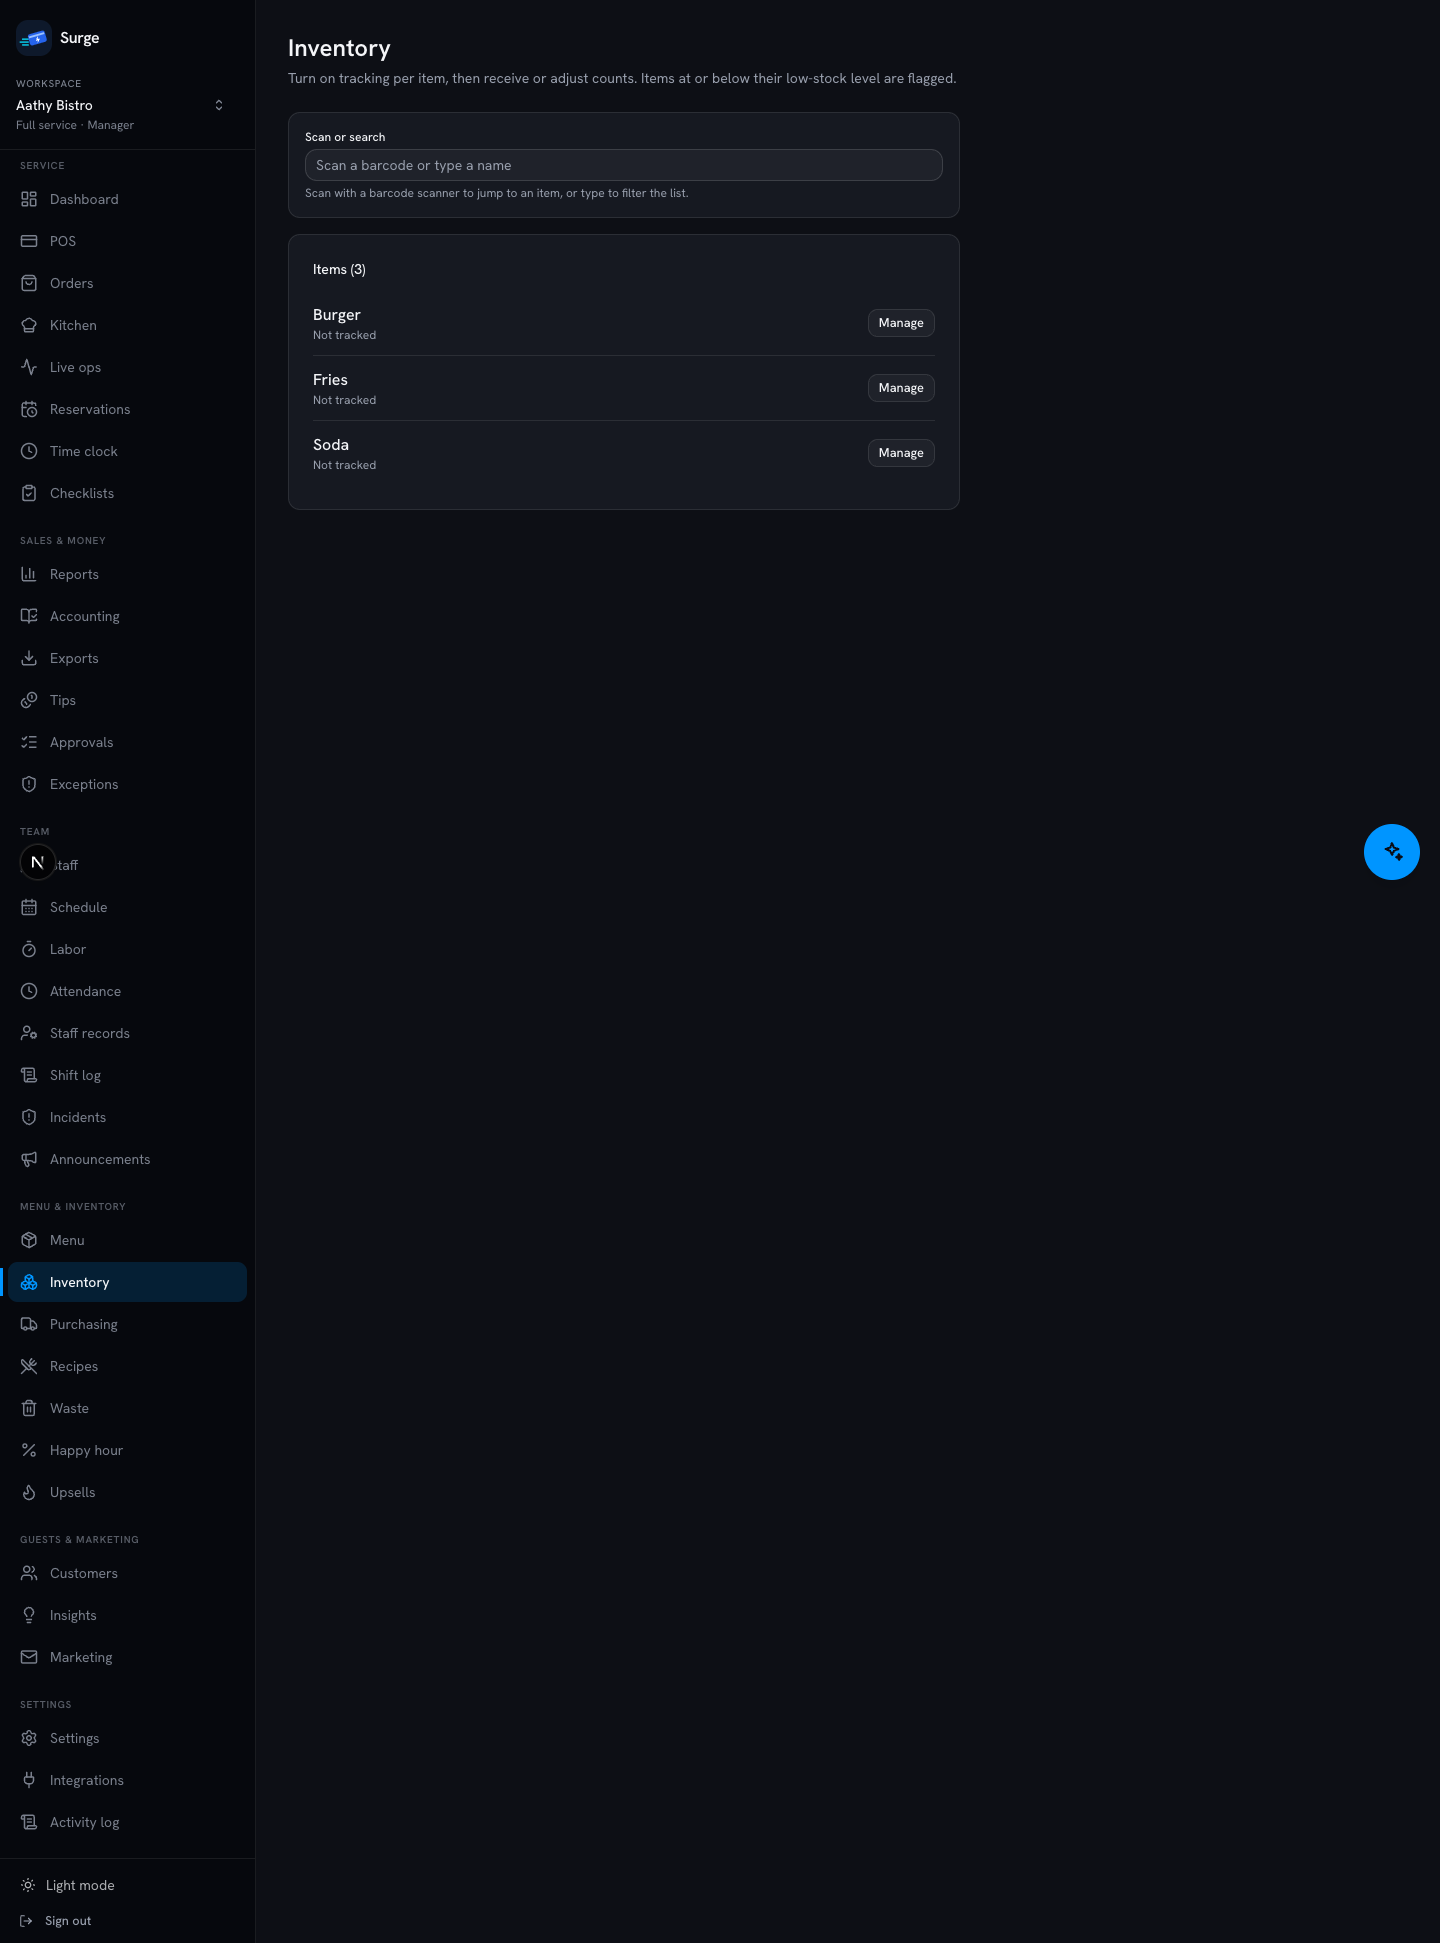
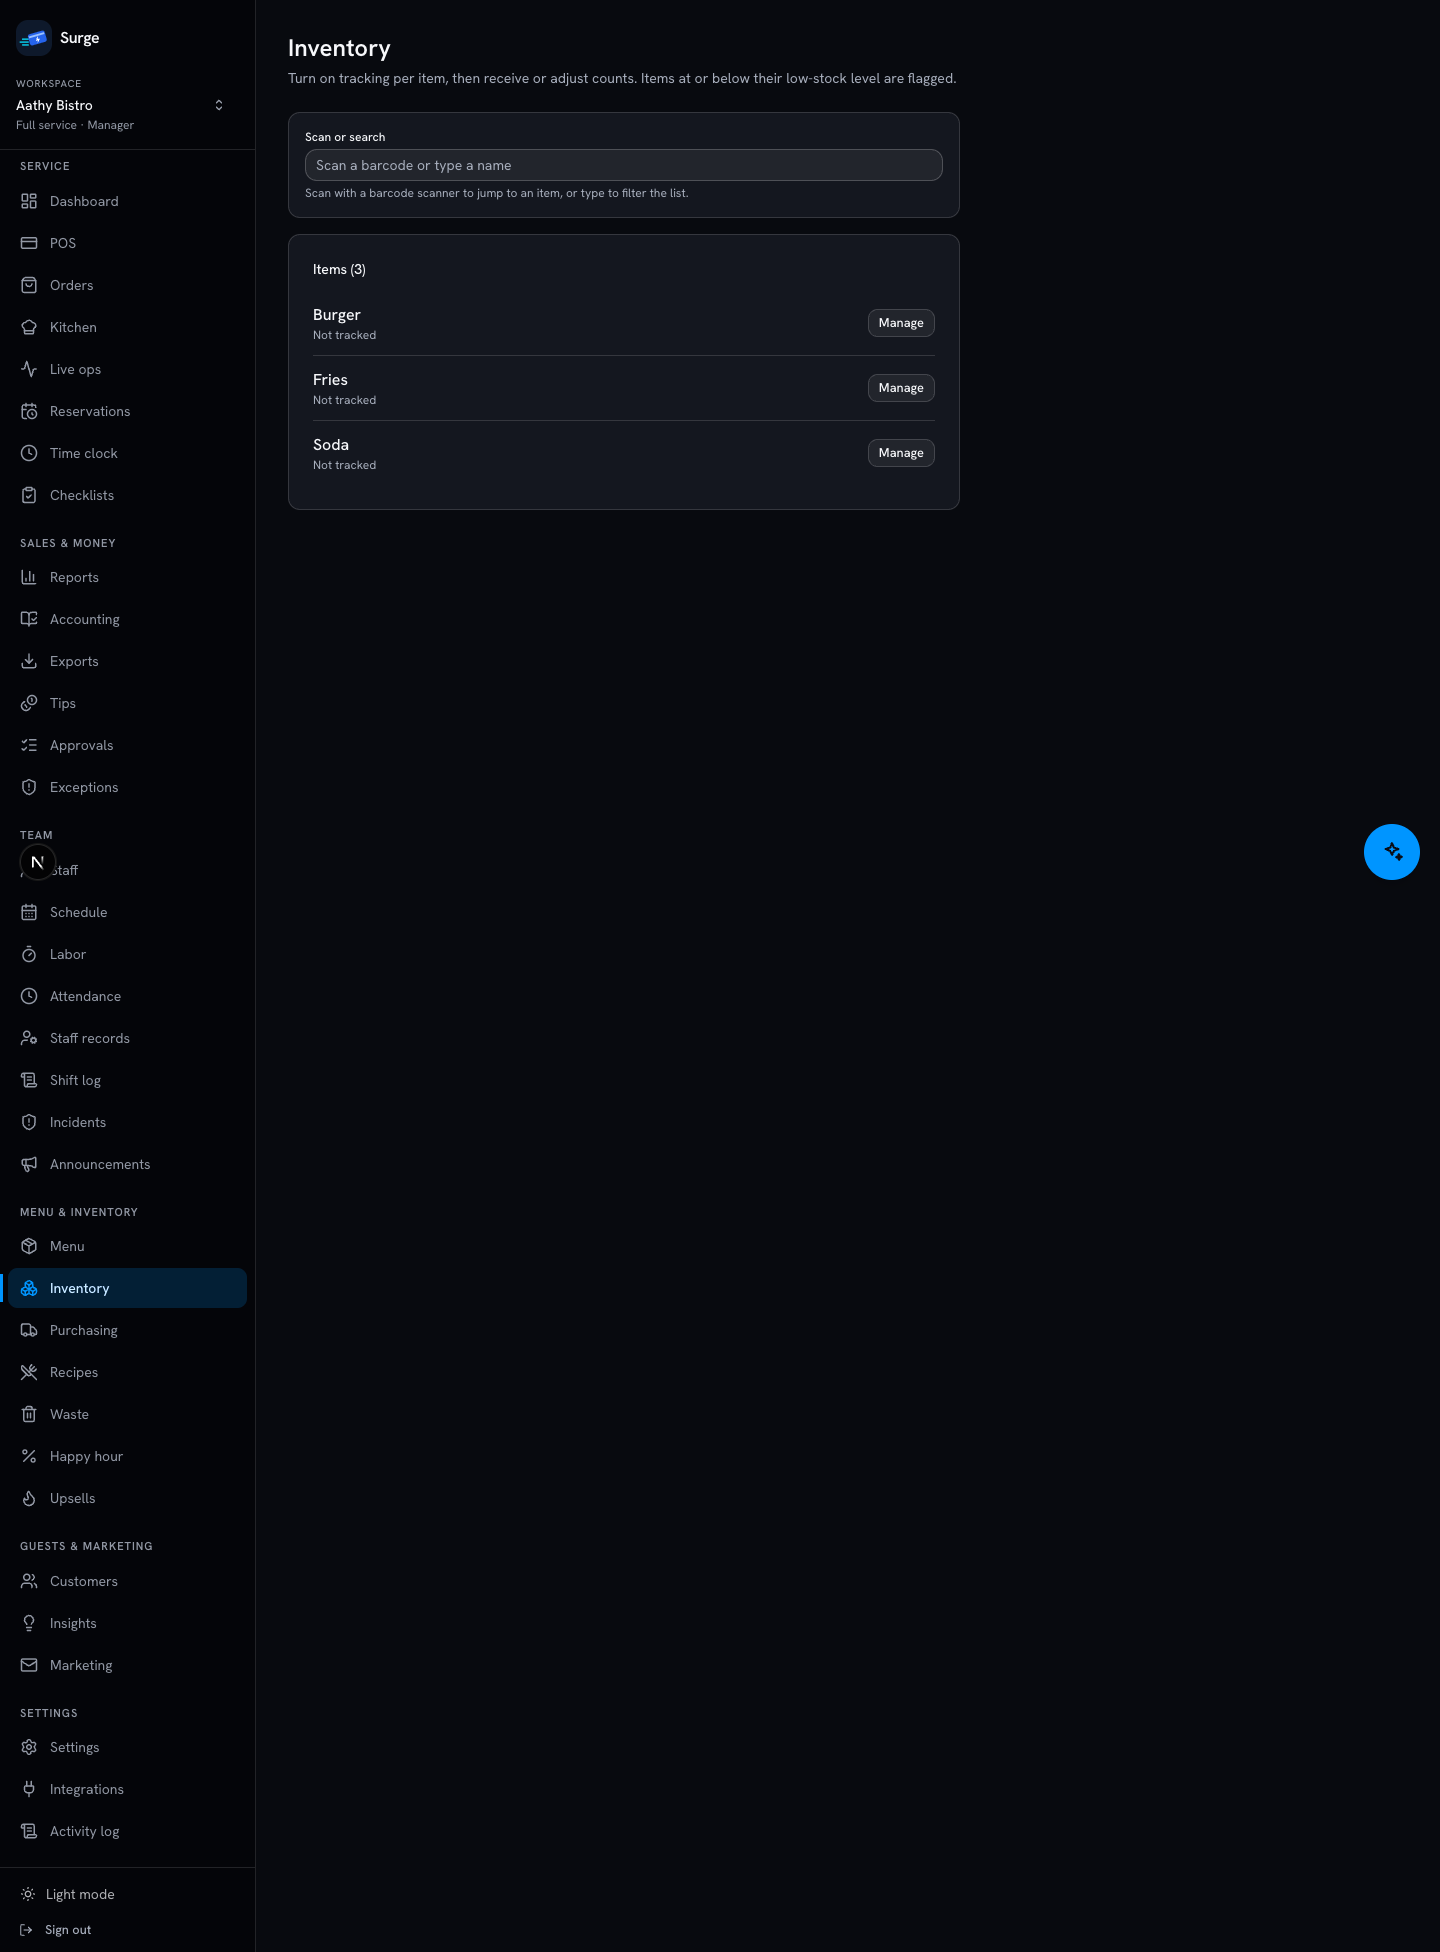
style(admin): give the dark theme a real surface ladder
An outside visual review called the back office flat and low-contrast, and it
was right. The cause was in the tokens, not the components: the canvas sat at
lightness 0.17 and cards at 0.215 — 0.045 apart — with 9%-opacity borders, so
every panel dissolved into the page and a screen read as one black rectangle
with text on it.

Four rungs now, each a visible step: canvas 0.145, card/panel 0.205, raised
0.245 (inputs, table headers, chips), overlay 0.275 (popovers, sheets). Borders
go 9% → 14%, inputs 13% → 20%, dividers 8% → 12%, and muted text 0.70 → 0.75 so
column headers and timestamps survive a glance.

The sidebar was 0.135 against the old canvas; with the canvas at 0.145 the rail
had all but merged with the page, so it drops to 0.115 and its group headings
lose the extra /70 transparency that made six sections hard to scan. The active
row now tints toward the accent instead of just going white.

Done in the existing OKLCH tokens rather than the hex palette the review
proposed, so it reaches all 45 routes at once and light mode still works — the
reviewer's spec named files that don't exist here (web/, AppSidebar.tsx,
ui/table.tsx, ui/badge.tsx) and would have forked the token system.

Screenshots in docs/review-screens/ re-captured. 114 tests, clean typecheck,
clean production build.

diff --git a/app/globals.css b/app/globals.css
@@ -55,6 +55,8 @@
   --color-card: var(--card);
   /* Design-system additions: raised surface, hairline borders, card elevation. */
   --color-surface-2: var(--surface-2);
+  --color-raised: var(--raised);
+  --color-raised-border: var(--raised-border);
   --color-line: var(--line);
   --color-line-strong: var(--line-strong);
   --shadow-elevation: var(--elevation);
@@ -127,6 +129,8 @@
 
   /* Elevation + surfaces (Daylight) */
   --surface-2: oklch(0.97 0.006 265);
+  --raised: oklch(0.975 0.004 265);
+  --raised-border: oklch(0.21 0.02 265 / 0.08);
   --line: oklch(0.21 0.02 265 / 0.1);
   --line-strong: oklch(0.21 0.02 265 / 0.18);
   --elevation: 0 1px 2px oklch(0 0 0 / 0.06), 0 12px 28px -18px oklch(0 0 0 / 0.18);
@@ -134,25 +138,45 @@
 }
 
 .dark {
-  /* Midnight — deep ink, lifted cards, electric blue accent */
-  --background: oklch(0.17 0.013 265);
-  --foreground: oklch(0.97 0.004 265);
-  --card: oklch(0.215 0.017 265);
-  --card-foreground: oklch(0.97 0.004 265);
-  --popover: oklch(0.2 0.017 265);
-  --popover-foreground: oklch(0.97 0.004 265);
+  /* Midnight — deep ink, lifted cards, electric blue accent.
+   *
+   * SURFACE LADDER. The canvas and the card used to sit 0.045 apart in
+   * lightness (0.17 vs 0.215) with 9%-opacity borders, so panels dissolved into
+   * the page — everything read as one flat black rectangle with text on it.
+   * Four rungs now, each a clear step, so a card looks like an object and a
+   * table header looks like part of that object:
+   *
+   *   canvas   0.145   the page behind everything
+   *   surface  0.205   cards, panels, the header bar
+   *   raised   0.245   inputs, table headers, chips — inside a card
+   *   overlay  0.275   popovers, dropdowns, sheets — above everything
+   */
+  --background: oklch(0.145 0.012 265);
+  --foreground: oklch(0.98 0.004 265);
+  --card: oklch(0.205 0.016 265);
+  --card-foreground: oklch(0.98 0.004 265);
+  --popover: oklch(0.275 0.019 265);
+  --popover-foreground: oklch(0.98 0.004 265);
   --primary: oklch(0.66 0.19 250);
   --primary-foreground: oklch(0.16 0.02 265);
-  --secondary: oklch(0.255 0.018 265);
-  --secondary-foreground: oklch(0.97 0.004 265);
-  --muted: oklch(0.255 0.016 265);
-  --muted-foreground: oklch(0.7 0.022 265);
-  --accent: oklch(0.28 0.02 265);
-  --accent-foreground: oklch(0.97 0.004 265);
+  --secondary: oklch(0.245 0.017 265);
+  --secondary-foreground: oklch(0.98 0.004 265);
+  --muted: oklch(0.245 0.016 265);
+  /* Was 0.7 — column headers, timestamps and helper text sat too close to the
+     card to scan a report quickly. */
+  --muted-foreground: oklch(0.75 0.022 265);
+  --accent: oklch(0.29 0.02 265);
+  --accent-foreground: oklch(0.98 0.004 265);
   --destructive: oklch(0.62 0.2 22);
-  --border: oklch(1 0 0 / 9%);
-  --input: oklch(1 0 0 / 13%);
+  /* A hairline you can actually see. 9% vanished against the new canvas. */
+  --border: oklch(1 0 0 / 14%);
+  --input: oklch(1 0 0 / 20%);
   --ring: oklch(0.66 0.19 250);
+
+  /* Rung 3 of the ladder, for surfaces nested INSIDE a card: table headers,
+     inputs, inline chips. Referenced as bg-raised / border-raised. */
+  --raised: oklch(0.245 0.017 265);
+  --raised-border: oklch(1 0 0 / 10%);
   --chart-1: oklch(0.66 0.19 250);
   --chart-2: oklch(0.72 0.14 200);
   --chart-3: oklch(0.78 0.13 165);
@@ -162,19 +186,23 @@
   --brand: oklch(0.66 0.19 250);
   --brand-foreground: oklch(0.16 0.02 265);
 
-  --sidebar: oklch(0.135 0.012 265);
-  --sidebar-foreground: oklch(0.97 0.004 265);
-  --sidebar-muted: oklch(0.6 0.02 265);
+  /* Deeper than the canvas (0.145) so the rail reads as a distinct plane
+     rather than merging into the page, which is what happened once the canvas
+     darkened. */
+  --sidebar: oklch(0.115 0.011 265);
+  --sidebar-foreground: oklch(0.98 0.004 265);
+  /* Group headings and inactive items were 0.6 — too dim to scan six sections. */
+  --sidebar-muted: oklch(0.68 0.02 265);
   --sidebar-primary: oklch(0.66 0.19 250);
   --sidebar-primary-foreground: oklch(0.16 0.02 265);
-  --sidebar-accent: oklch(0.66 0.19 250 / 0.16);
-  --sidebar-accent-foreground: oklch(0.92 0.06 250);
-  --sidebar-border: oklch(1 0 0 / 8%);
+  --sidebar-accent: oklch(0.66 0.19 250 / 0.18);
+  --sidebar-accent-foreground: oklch(0.94 0.06 250);
+  --sidebar-border: oklch(1 0 0 / 12%);
   --sidebar-ring: oklch(0.66 0.19 250);
 
   /* Floor table status — darker fills, brighter text for dark mode.
      Available is a gray clearly lighter than the floor canvas so empty tables
-     read as solid objects (the canvas uses --background ≈ 0.17). */
+     read as solid objects (the canvas uses --background ≈ 0.145). */
   --table-available-bg: oklch(0.27 0.01 265);
   --table-available-border: oklch(0.42 0.02 265);
   --table-seated-bg: oklch(0.33 0.08 255);
@@ -189,8 +217,8 @@
 
   /* Elevation + surfaces (Midnight) — lifted cards on deep ink */
   --surface-2: oklch(0.265 0.02 265);
-  --line: oklch(1 0 0 / 0.08);
-  --line-strong: oklch(1 0 0 / 0.16);
+  --line: oklch(1 0 0 / 0.12);
+  --line-strong: oklch(1 0 0 / 0.22);
   --elevation: 0 1px 0 oklch(1 0 0 / 0.04) inset, 0 14px 34px -20px oklch(0 0 0 / 0.75);
   --elevation-sm: 0 1px 0 oklch(1 0 0 / 0.03) inset, 0 8px 20px -14px oklch(0 0 0 / 0.7);
 }

diff --git a/app/app/_components/sidebar-nav.tsx b/app/app/_components/sidebar-nav.tsx
@@ -114,7 +114,10 @@ export function SidebarNav({ sections }: { sections: NavSection[] }) {
         <div key={section.key} className={si === 0 ? "" : "mt-5"}>
           {/* A heading only earns its space when there's more than one group. */}
           {sections.length > 1 && (
-            <p className="px-3 pb-1.5 text-[10px] font-semibold uppercase tracking-[0.08em] text-sidebar-muted/70">
+            // Was text-sidebar-muted/70 — the extra 30% transparency on an
+            // already-dim token left the six group headings barely legible,
+            // which defeats the point of grouping.
+            <p className="px-3 pb-1.5 text-[11px] font-semibold uppercase tracking-[0.09em] text-sidebar-muted">
               {section.label}
             </p>
           )}
@@ -149,7 +152,11 @@ export function SidebarNav({ sections }: { sections: NavSection[] }) {
                     <span
                       className={`relative flex items-center gap-3 z-10 transition-colors ${
                         isActive
-                          ? "text-sidebar-foreground font-medium"
+                          ? // The active row already has an accent fill and a
+                            // left bar; tinting the label toward the accent is
+                            // what makes it read as selected rather than merely
+                            // highlighted.
+                            "text-sidebar-accent-foreground font-medium"
                           : "text-sidebar-muted group-hover:text-sidebar-foreground"
                       }`}
                     >

diff --git a/app/robots.ts b/app/robots.ts
@@ -2,7 +2,21 @@ import type { MetadataRoute } from "next";
 
 const SITE_URL = "https://www.surgetechpos.com";
 
+// TEMPORARY, paired with OPEN_PREVIEW in lib/supabase/middleware.ts — set this
+// back to `false` at the same time.
+//
+// Well-behaved fetchers honour robots.txt, so `Disallow: /app/` makes the
+// dashboard unfetchable for them on ANY host. That looks like "the link is
+// broken" when it's really "the crawler is doing as it's told" — it's why an
+// outside reviewer couldn't load the tunnel. Permissive while the review runs;
+// production is unaffected by the NODE_ENV term.
+const OPEN_PREVIEW = true;
+const openPreview = OPEN_PREVIEW && process.env.NODE_ENV !== "production";
+
 export default function robots(): MetadataRoute.Robots {
+  if (openPreview) {
+    return { rules: { userAgent: "*", allow: "/" } };
+  }
   return {
     rules: {
       userAgent: "*",

diff --git a/docs/review-screens 2/README.md b/docs/review-screens 2/README.md
@@ -1,0 +1,61 @@
+# Surge POS — admin dashboard screens for review
+
+22 full-page screenshots of the back office, captured at 1440×900 (2× DPI, dark
+theme, full scroll height). Tenant is **Aathy Bistro**, a full-service
+restaurant, viewed as a **manager**.
+
+Read them in numbered order — it follows how a restaurant actually uses the
+product: service → money → team → menu → guests → settings.
+
+## What's already been reviewed, and what hasn't
+
+An earlier review of this dashboard was **text-only** — it read the codebase and
+the audit notes but never saw a screen. Its findings were about information
+architecture, and they are all implemented:
+
+- flat 29-item sidebar → six mode-aware groups (visible in every screenshot)
+- ~12 routes that existed but appeared in no menu → now mounted
+- route access moved from `owner || manager` role checks to a permission matrix
+- two new roles, **Shift lead** and **Bookkeeper**, that previously could not
+  sign in at all
+- honest export labels ("Journal CSV for QuickBooks / Xero", not a fake sync)
+
+**So please don't re-derive the IA critique.** These images exist so the review
+can finally be about what's on the screen.
+
+## What to look at
+
+| # | Screen | Worth judging |
+| --- | --- | --- |
+| 01 | Dashboard | First thing an owner sees each morning. Is the hierarchy right? Too many equal-weight KPI tiles? |
+| 02–04 | Live ops, Kitchen/Expo, Orders | Density and scannability under service pressure |
+| 05–06 | Reports, Reports with a custom date range | 06 is new. Does the date control read clearly beside the Today/7d/30d presets? |
+| 07–08 | Accounting, Exports | Read as a bookkeeper: is it obvious what each export gives you? |
+| 09–10 | Approvals, Exceptions | These are mostly empty here — judge the empty states |
+| 11 | Staff | Role list and PIN management |
+| **22** | **Staff → Manage, expanded** | **The newest surface.** "Dashboard access" links a PIN identity to a web login. Is the copy clear to a restaurant GM? Is "Access level" understandable without docs? |
+| 12–14 | Schedule, Labor, Attendance | |
+| 15–17 | Menu, Inventory, Purchasing | |
+| 18–19 | Customers, Insights | |
+| 20–21 | Activity log, Settings | 21 is long — the settings page may be doing too much |
+
+## Known, already on the list — don't report these
+
+- Most screens show **$0.00 / empty tables**: this tenant has no live sales
+  data. Judge the empty states, not the absence of numbers.
+- The blue **sparkle button** bottom-right is an assistant widget, intentional.
+- A small dark circle overlaps the **Staff** sidebar icon in some shots — that's
+  the Next.js dev-mode indicator, not product UI.
+- Screens are captured from a dev server, so nothing is performance-tuned.
+
+## Suggested prompt
+
+> These are 22 screenshots of the Surge POS back office (restaurant admin),
+> viewed as a manager. A previous review covered information architecture and
+> those changes are done — don't repeat that analysis. Judge what you can see:
+> visual hierarchy, density, typography, empty states, copy, and whether each
+> screen tells a restaurant owner, bookkeeper or shift lead what they need at a
+> glance. Pay particular attention to image 22, the Dashboard access panel,
+> which is new and unreviewed. Be concrete — name the screen, the element, and
+> the change. If a screen is already good, say so rather than inventing a
+> finding.
